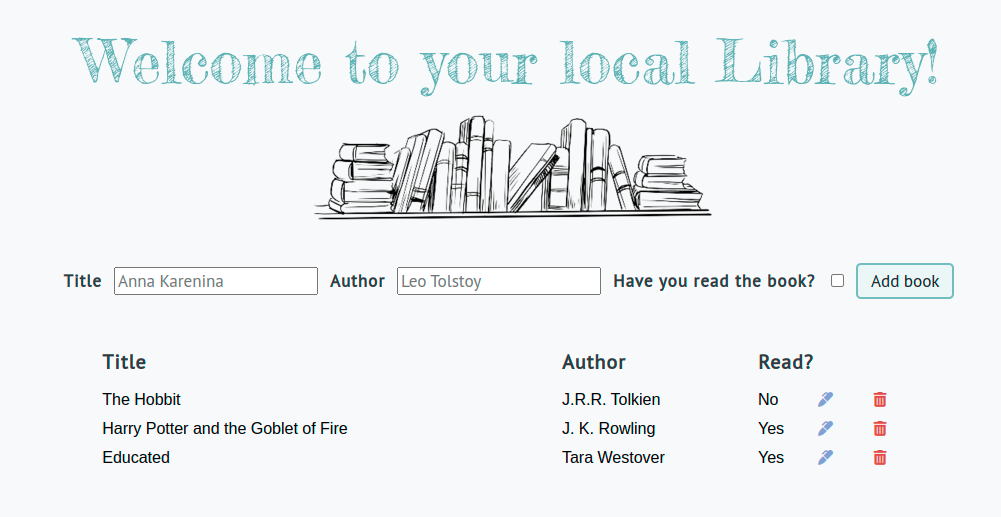
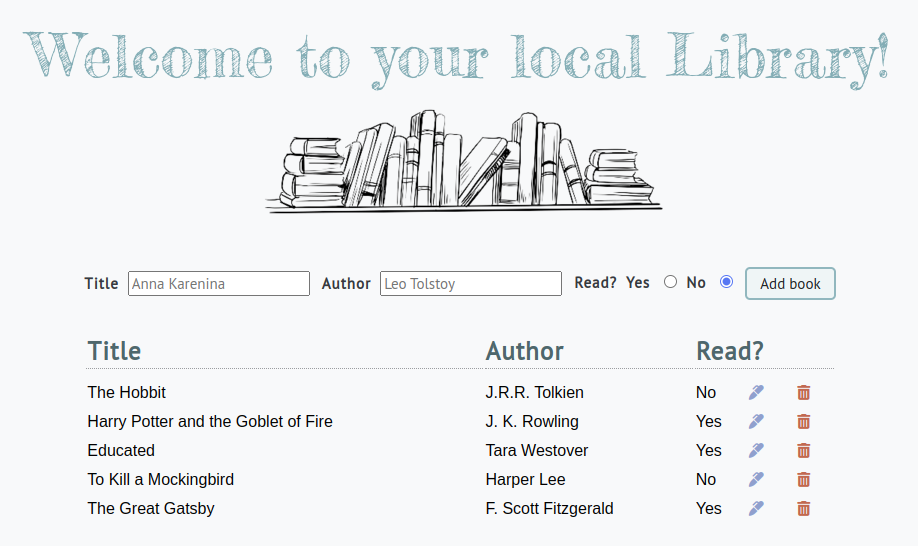
Replace checkbox with radio buttons

diff --git a/style.css b/style.css
@@ -11,24 +11,62 @@ body {
     min-height: 100%;
 }
 
+h1 {
+    color: #5db3b6;
+    font-family: 'Fredericka the Great', cursive;
+    font-size: 60px;
+    font-weight: 100;
+    margin: 1.5em 0 0;
+    text-align: center;
+}
+
+img {
+    margin-bottom: 25px;
+}
+
 label,
 th,
 input,
 #addBtn {
     font-family: 'PT Sans', sans-serif;
+    margin-top: 10px;
+}
+
+form {
+    align-items: center;
+    display: flex;
+    flex-wrap: wrap;
+    justify-content: space-between;
+    width: 100%;
+}
+
+input,
+label {
+    font-size: 15px;
+    margin-right: 5px;
+}
+
+label,
+th {
+    font-weight: bold;
+    letter-spacing: 1px;
+}
+
+label {
+    color: #343A40;
+}
+
+table {
+    margin: 2em 0;
+    width: 100%;
 }
 
 thead {
     margin-bottom: 15px;
 }
 
-td {
-    font-family: Verdana, Geneva, Tahoma, sans-serif;
-    padding-bottom: 8px;
-}
-
 th {
-    font-size: 20px;
+    font-size: 25px;
     font-weight: bold;
     text-align: left;
     border-bottom: 1px #9a9da0 dotted;
@@ -42,38 +80,9 @@ tbody:before {
     text-indent: -99999px;
 }
 
-input,
-label {
-    font-size: 17px;
-    margin-right: 8px;
-}
-
-label,
-th {
-    font-weight: bold;
-    letter-spacing: 1px;
-}
-
-label {
-    color: #343A40;
-}
-
-h1 {
-    color: #5db3b6;
-    font-family: 'Fredericka the Great', cursive;
-    font-size: 60px;
-    font-weight: 100;
-    margin: 1.5em 0 0;
-    text-align: center;
-}
-
-table {
-    margin: 2em 0;
-    width: 100%;
-}
-
-img {
-    margin-bottom: 25px;
+td {
+    font-family: Verdana, Geneva, Tahoma, sans-serif;
+    padding-bottom: 8px;
 }
 
 .container {
@@ -83,6 +92,10 @@ img {
     gap: 15px;
     justify-content: center;
     min-height: 80%;
+}
+
+.main {
+    width: 55%;
 }
 
 .editStatusBtn,
@@ -121,6 +134,6 @@ img {
     border-radius: 5px;
     border: 2px solid #71bdbf;
     color: #212529;
-    font-size: 17px;
+    font-size: 15px;
     padding: 5px 13px;
 }

diff --git a/index.html b/index.html
@@ -13,16 +13,25 @@
     <div class="container">
         <h1>Welcome to your local Library!</h1>
         <img src="./images/books.png" alt="books on a shelf illustration">
-        <div>
+        <div class="main">
             <form>
-                <label for="title">Title</label>
-                <input type="text" name="title" id="title" placeholder="Anna Karenina">
+                <div>
+                    <label for="title">Title</label>
+                    <input type="text" name="title" id="title" placeholder="Anna Karenina">
+                </div>
 
-                <label for="author">Author</label>
-                <input type="text" name="author" id="author" placeholder="Leo Tolstoy">
+                <div>
+                    <label for="author">Author</label>
+                    <input type="text" name="author" id="author" placeholder="Leo Tolstoy">
+                </div>
 
-                <label for="status">Have you read the book?</label>
-                <input type="checkbox" name="status" id="status" value="Yes">
+                <div>
+                    <label for="status">Read?</label>
+                    <label for="status">Yes</label>
+                    <input type="radio" id="yes" name="status" value="Yes">
+                    <label for="status">No</label>
+                    <input type="radio" id="no" name="status" value="No">
+                </div>
 
                 <button type="button" id="addBtn">Add book</button>
             </form>

diff --git a/script.js b/script.js
@@ -17,10 +17,11 @@ const DEFAULT_DATA = [{
     }
 ];
 
+let readStatus;
+
 let tbody = document.querySelector('tbody');
 let bookTitle = document.getElementById('title');
 let bookAuthor = document.getElementById('author');
-let readStatus = document.getElementById('status');
 
 let addBookBtn = document.getElementById('addBtn').addEventListener('click', (e) => {
     if (bookAuthor.value == '' || bookTitle.value == '') {
@@ -42,7 +43,7 @@ class Book {
 }
 
 function addBookToLibrary() {
-    if (readStatus.checked == true) {
+    if (document.querySelector('input[name="status"]:checked').value === 'Yes') {
         readStatus = 'Yes';
     } else {
         readStatus = 'No';
@@ -116,7 +117,6 @@ const updateTable = () => {
 function clearFields() {
     bookTitle.value = '';
     bookAuthor.value = '';
-    readStatus.checked = true;
 }
 
 function updateLocalStorage() {
